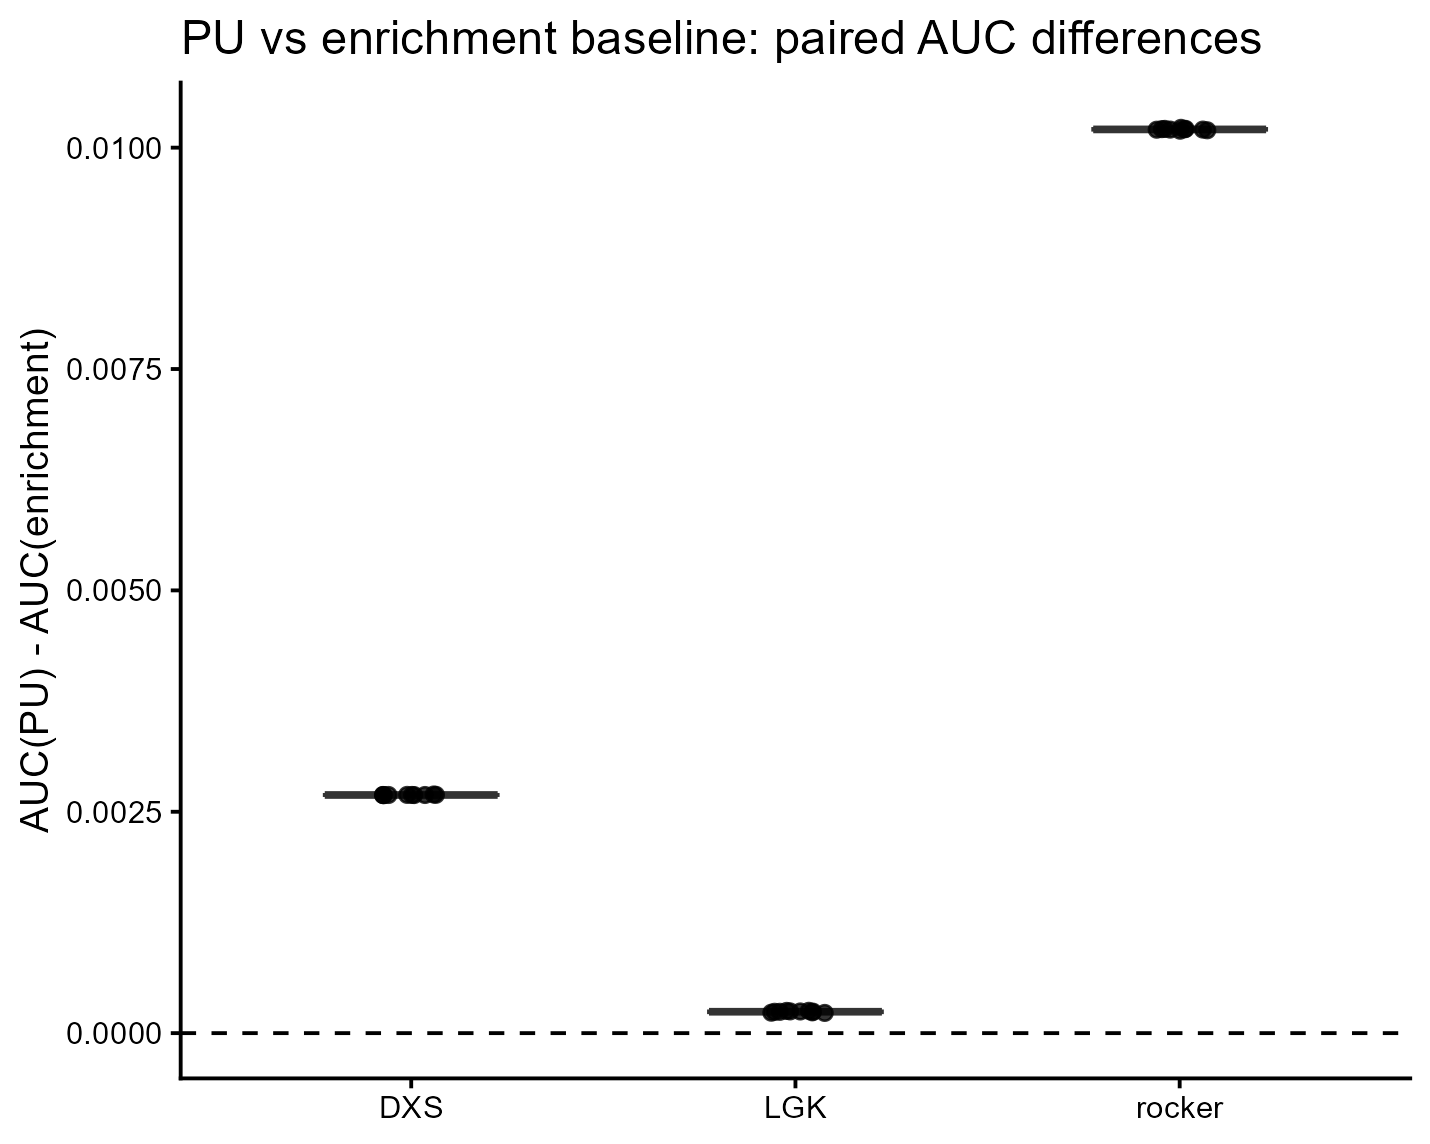
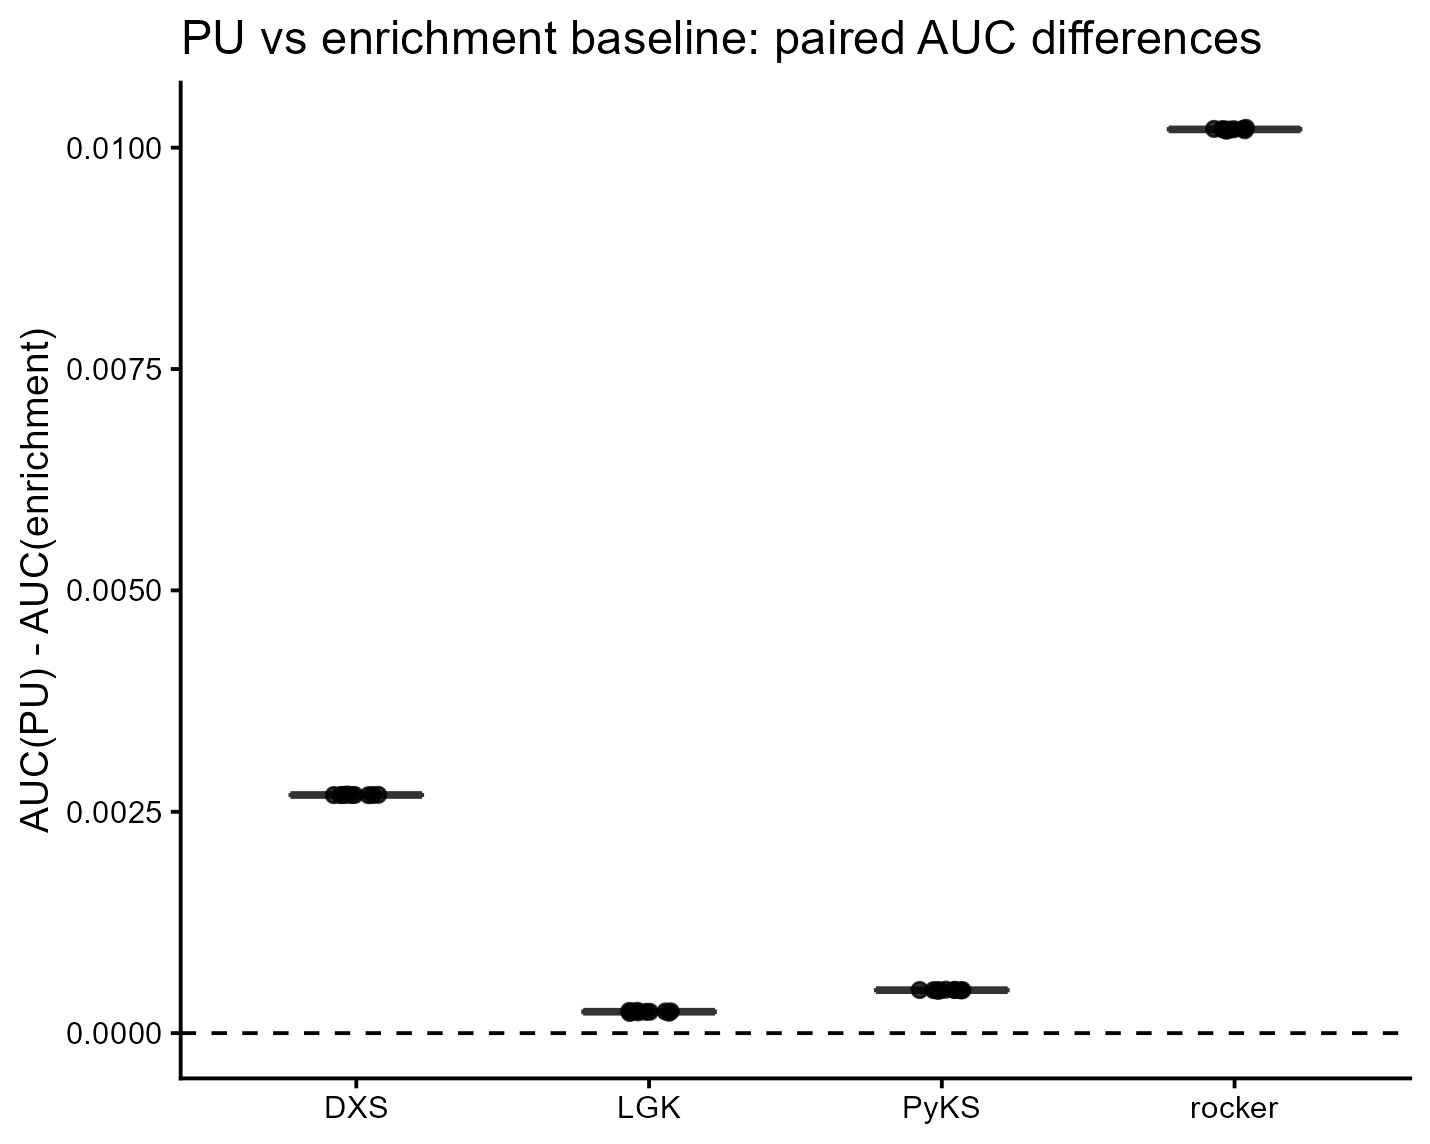
reproduce PyKS enrichment baseline

diff --git a/reproduction/reports/enrichment-baseline-reproduction.md b/reproduction/reports/enrichment-baseline-reproduction.md
@@ -40,7 +40,11 @@ LGK 也按 10 次重复、10 折设置完成。10 次重复的平均差值为 +0
 
 rocker 也按 10 次重复、10 折设置完成。逐重复平均后，enrichment AUC 为 `0.8079594`，PU AUC 为 `0.8181656`，配对差值为 `+0.0102063`（重复间标准差 `8.94 × 10^-6`，95% t 区间 `[0.0101999, 0.0102127]`，对 10 个重复级差值进行单样本 t 检验得到 `p < 2.2 × 10^-16`）。作者汇总文件报告 rocker `mean_diff = 0.010200`，本地复现相差约 `6.3 × 10^-6`。结果见 `reproduction/results/enrichment_rocker_full/rocker_enrichment_detail.csv`、`rocker_enrichment_summary.csv` 和 `rocker_enrichment_repro_summary.csv`；每个重复的日志、逐折指标和 RDS 在同目录的 `rocker/` 子目录中。
 
-当前 DXS、LGK 和 rocker 三个数据集均完成作者的 10×10 设置，且 PU 相对 enrichment 的平均 AUC 差为正并与作者报告值接近。三数据集逐重复差值图为 `reproduction/results/figures/enrichment_pu_auc_difference_all.png`。HA 的同设置批次正在运行，完成后再更新跨数据集汇总和图表。
+当前 DXS、LGK、PyKS 和 rocker 四个数据集均完成作者的 10×10 设置，PU 相对 enrichment 的平均 AUC 差均为正，并与作者报告值接近。四数据集逐重复差值图为 `reproduction/results/figures/enrichment_pu_auc_difference_all.png`。HA 的同设置批次正在运行，完成后再更新五数据集汇总和图表。
+
+PyKS 的 10×10 批次也已完成。enrichment 平均 AUC 为 `0.8492676`，PU 平均 AUC 为 `0.8497528`，重复级差值均值为 `+0.0004852`（标准差 `3.34 × 10^-6`，95% t 区间 `[0.0004828, 0.0004876]`，重复级单样本 t 检验 `p = 5.65 × 10^-21`）。作者报告 `mean_diff = 0.000492`，本地差约 `−6.8 × 10^-6`。统计上差异稳定为正，但绝对 AUC 增益约 `0.0005`，实际大小有限；不能只凭很小的 p 值称为显著的实际性能提升。结果见 `reproduction/results/enrichment_pyks_full/PyKS_enrichment_detail.csv`、`PyKS_enrichment_summary.csv` 和 `PyKS_enrichment_repro_summary.csv`；重复日志、逐折指标和 RDS 保存在 `PyKS/` 子目录。
+
+HA 同设置批次仍在运行；完成后会追加 HA 的聚合统计并重新生成五数据集图。
 
 ## 已知限制
 
